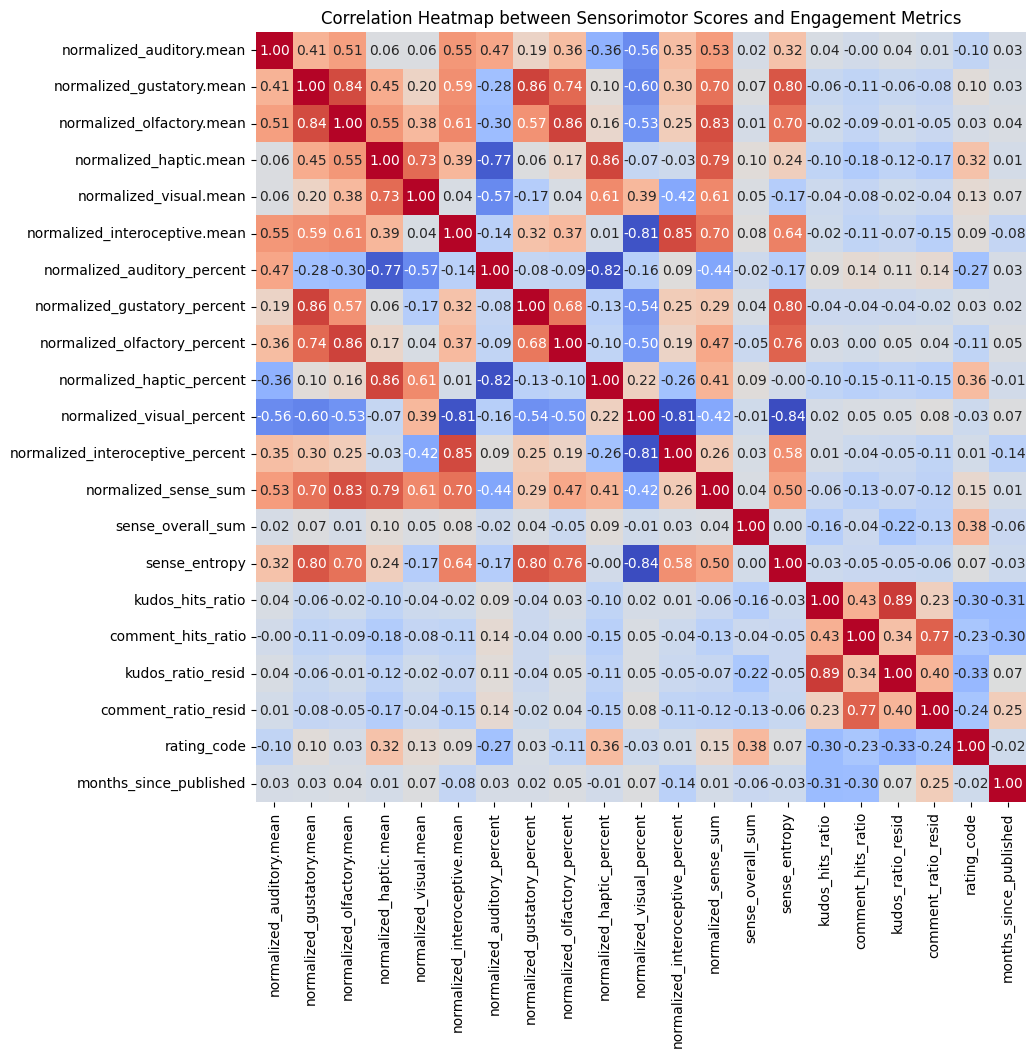
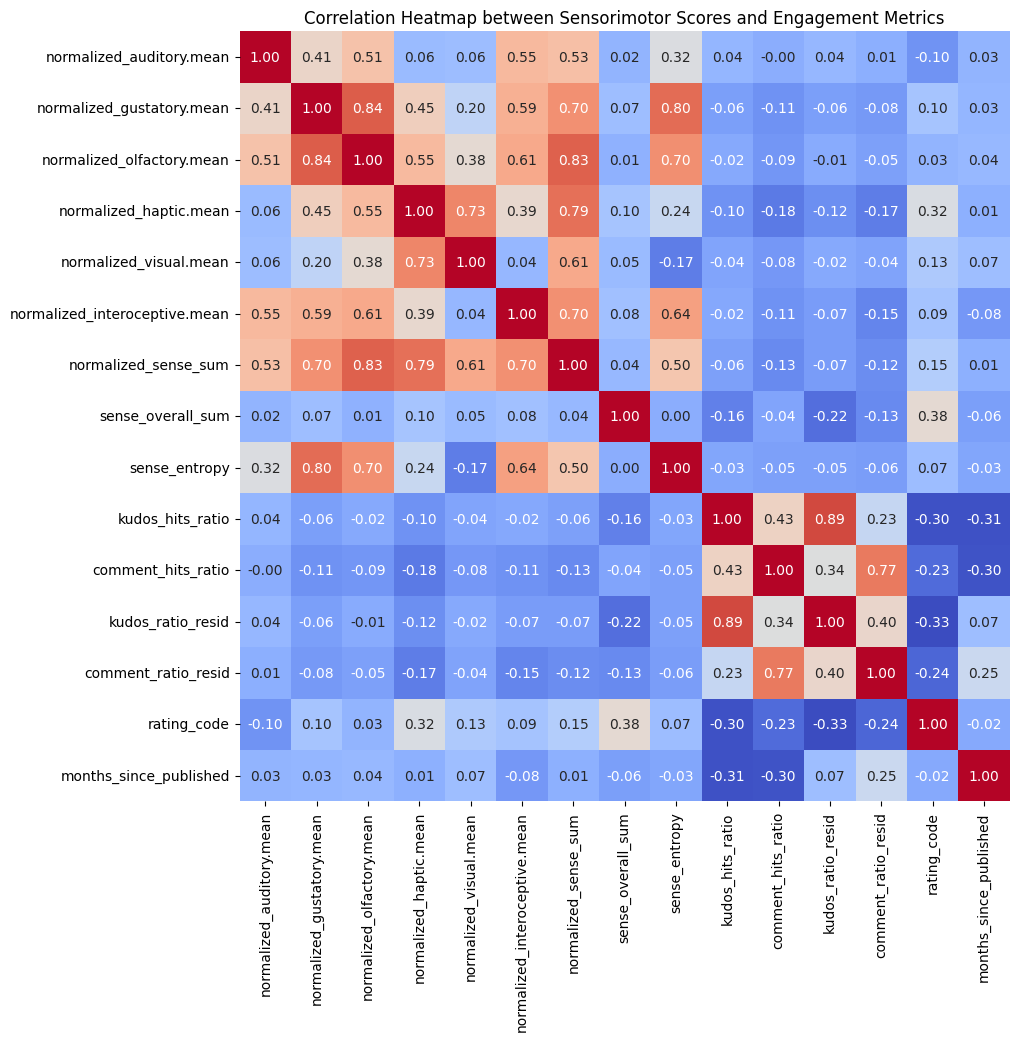
correlations

diff --git a/notebooks/check.py b/notebooks/check.py
@@ -9,36 +9,44 @@ from scipy.stats import entropy
 
 # %%
 df = pd.read_json("../data/fanfics_metadata_with_sensorimotor_scores.json", orient='records', lines=True)
+
+drop_cols = ['total_foot_leg.mean','normalized_foot_leg.mean', 'avg_matched_foot_leg.mean','total_hand_arm.mean', 'normalized_hand_arm.mean',
+       'avg_matched_hand_arm.mean', 'total_head.mean', 'normalized_head.mean','avg_matched_head.mean', 'total_mouth.mean', 'normalized_mouth.mean',
+       'avg_matched_mouth.mean', 'total_torso.mean', 'normalized_torso.mean','avg_matched_torso.mean']
+df = df.drop(columns=drop_cols)
 df.head()
 
 # %%
 # decide which columns to use, here senses + normalized & engagement metrics
 sense_cols = ["auditory.mean", "gustatory.mean", "olfactory.mean", "haptic.mean", "visual.mean", "interoceptive.mean"]
 use_what = "normalized_" # set this to total, avg_matched, or normalized
-
 sense_cols_prefixed = [use_what + col for col in sense_cols]
 
 # make a sense-ratio column where all senses sum to 1
-df[f'{use_what}_sense_intensity'] = df[sense_cols_prefixed].sum(axis=1)
+df[f'{use_what}sense_sum'] = df[sense_cols_prefixed].sum(axis=1)
 # and an overall sum
 total_cols = [col for col in df.columns if col.startswith("total_")]
 df['sense_overall_sum'] = df[total_cols].mean(axis=1)
 # and we add, for each sense, how big a percent of the total sense intensity it is
 for sense in sense_cols_prefixed:
     colname = sense.replace('.mean', '_percent')
-    df[f"{colname}"] = df[sense] / df['sense_overall_sum']
+    df[f"{colname}"] = df[sense] / df[f'{use_what}sense_sum']
 
 # and add entropy
-def prob(values):
-    total = np.sum(values)
-    return values / total if total != 0 else np.ones_like(values) / len(values)
-def calculate_entropy(embedding):
-    return entropy(prob(embedding))
+def calculate_entropy(values):
+    values = np.array(values)
+    total = values.sum()
+    if total == 0:
+        # uniform distribution if all zeros
+        values = np.ones_like(values) / len(values)
+    else:
+        values = values / total
+    return entropy(values, base=2)  # optional: base=2 for bits
 
 df['sense_entropy'] = df[sense_cols_prefixed].apply(calculate_entropy, axis=1)
 df.head()
 
-add_sense_cols = [col for col in df.columns if col.endswith('_percent')] + [f'{use_what}_sense_intensity', 'sense_overall_sum', 'sense_entropy']
+add_sense_cols = [f'{use_what}sense_sum', 'sense_overall_sum', 'sense_entropy'] #+ [col for col in df.columns if col.endswith('_percent')] # percent show some of the same info so we skip them for now
 # %%
 # fix some cols
 df['published'] = pd.to_datetime(df['published'], errors='coerce')
@@ -85,9 +93,10 @@ engagement_cols = ['kudos_hits_ratio', 'comment_hits_ratio', 'kudos_ratio_resid'
 corr_cols = sense_cols_prefixed + add_sense_cols + engagement_cols
 # heatmap of correlations
 plt.figure(figsize=(15, 10))
-corr = df[corr_cols].corr()
+corr = df[corr_cols].corr(method='spearman')
 sns.heatmap(corr, annot=True, fmt=".2f", cmap='coolwarm', cbar=False, square=True)
 plt.title('Correlation Heatmap between Sensorimotor Scores and Engagement Metrics')
+plt.savefig("../figs/correlation_heatmap.png", bbox_inches='tight')
 plt.show()
 
 # %%
@@ -99,6 +108,15 @@ sns.lineplot(x='months_since_published', y=model.fittedvalues, color='red', data
 plt.title('Kudos-Hits Ratio vs. Months Since Published with Regression Line')
 plt.xlabel('Months Since Published')
 plt.ylabel('Kudos-Hits Ratio')
+plt.show()
+
+# lets see the comment_hits_ratio vs months since published
+plt.figure(figsize=(8, 6))
+sns.scatterplot(x='months_since_published', y='comment_hits_ratio', data=df, alpha=0.5)
+sns.lineplot(x='months_since_published', y=model_comments.fittedvalues, color='red', data=df)
+plt.title('Comment-Hits Ratio vs. Months Since Published with Regression Line')
+plt.xlabel('Months Since Published')
+plt.ylabel('Comment-Hits Ratio')
 plt.show()
 
 # make historgrams of the residuals
